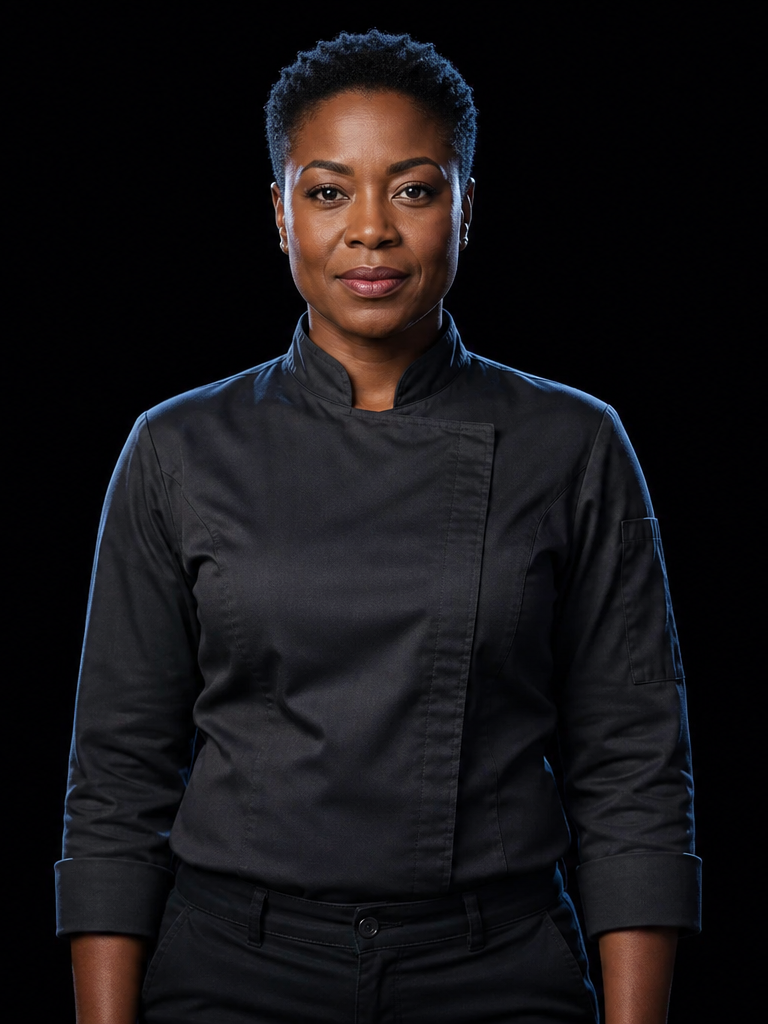
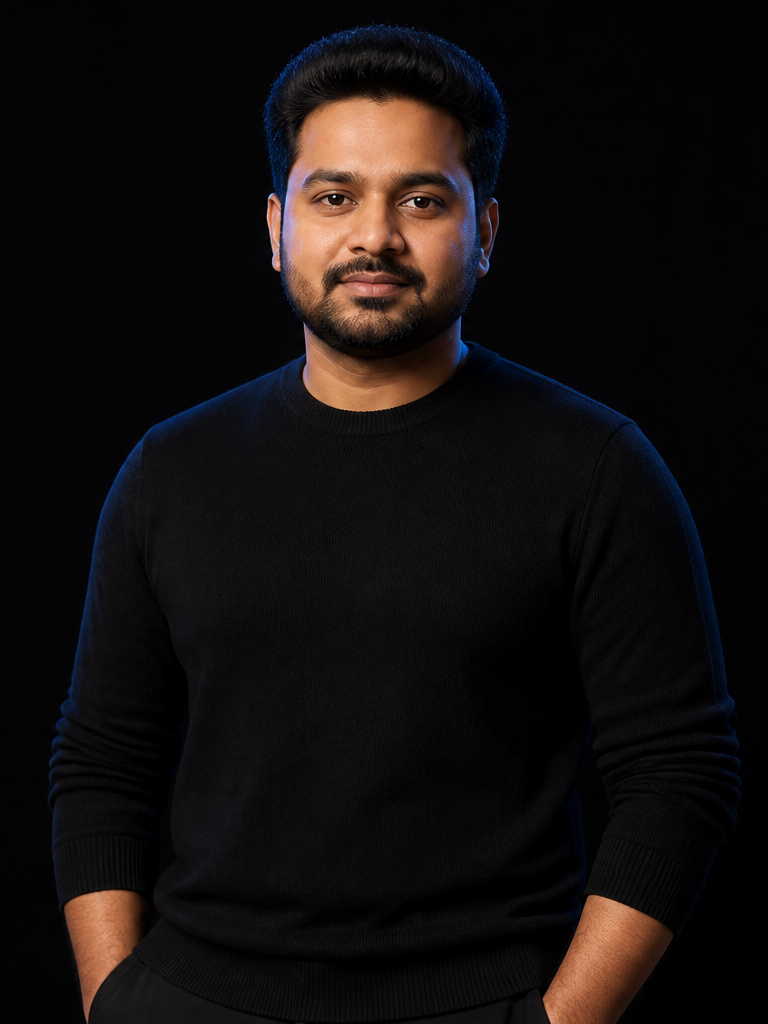
Add the verse page after layer + plugin, and remake four skill faces.
Keanu on Instagram now lands on four jobs. Concierge, Reviewer, Chef, and Coach no longer share a look.

Changed region(s): [[0.0625, 0.0, 0.9688, 1.0], [0.5625, 0.9062, 0.5938, 0.9375], [0.5312, 0.9375, 0.5625, 0.9688]]

diff --git a/index.html b/index.html
@@ -930,6 +930,71 @@
     .layer-custom .chip-label {
       width: 100%;
     }
+
+    .verse-kicker {
+      position: relative;
+      z-index: 2;
+      margin: 0;
+      font-size: 10px;
+      letter-spacing: 0.28em;
+      text-transform: uppercase;
+      color: rgba(244, 240, 246, 0.42);
+      text-align: center;
+    }
+    .verse-screen .screen-title {
+      margin: 0;
+      letter-spacing: 0.28em;
+      color: var(--line);
+    }
+    .verse-stage {
+      position: relative;
+      z-index: 2;
+      display: flex;
+      flex-direction: column;
+      align-items: center;
+      gap: 10px;
+      flex: 0 0 auto;
+    }
+    .verse-screen .portrait-wrap {
+      width: min(42vw, 168px);
+      max-width: 168px;
+    }
+    .verse-agent {
+      margin: 0;
+      font-size: 12px;
+      font-weight: 500;
+      letter-spacing: 0.22em;
+      text-transform: uppercase;
+      color: var(--line);
+    }
+    .verse-acts {
+      position: relative;
+      z-index: 2;
+      width: min(100%, 420px);
+      display: grid;
+      grid-template-columns: 1fr 1fr;
+      gap: 8px;
+      flex: 0 0 auto;
+    }
+    .verse-act {
+      appearance: none;
+      border: 1px solid var(--line);
+      background: rgba(232, 61, 154, 0.06);
+      color: var(--line);
+      margin: 0;
+      padding: 16px 10px;
+      font: inherit;
+      font-size: 11px;
+      font-weight: 500;
+      letter-spacing: 0.12em;
+      text-transform: uppercase;
+      cursor: pointer;
+      text-align: center;
+    }
+    .verse-act[aria-pressed="true"] {
+      background: rgba(232, 61, 154, 0.18);
+      box-shadow: 0 0 16px rgba(232, 61, 154, 0.3);
+    }
     .s3-foot {
       position: relative;
       z-index: 2;
@@ -1215,15 +1280,15 @@
           <span class="scenario-label"><strong>Operator</strong></span>
         </button>
         <button type="button" class="scenario" role="option" data-layer="concierge" aria-pressed="false">
-          <img class="scenario-art" src="assets/scenarios/scholar.png?v=2" alt="" />
+          <img class="scenario-art" src="assets/scenarios/concierge.png?v=1" alt="" />
           <span class="scenario-label"><strong>Concierge</strong></span>
         </button>
         <button type="button" class="scenario" role="option" data-layer="reviewer" aria-pressed="false">
-          <img class="scenario-art" src="assets/scenarios/director.png?v=2" alt="" />
+          <img class="scenario-art" src="assets/scenarios/reviewer.png?v=1" alt="" />
           <span class="scenario-label"><strong>Reviewer</strong></span>
         </button>
         <button type="button" class="scenario" role="option" data-layer="chef" aria-pressed="false">
-          <img class="scenario-art" src="assets/scenarios/chef.png?v=2" alt="" />
+          <img class="scenario-art" src="assets/scenarios/chef.png?v=3" alt="" />
           <span class="scenario-label"><strong>Chef</strong></span>
         </button>
         <button type="button" class="scenario" role="option" data-layer="security" aria-pressed="false">
@@ -1235,7 +1300,7 @@
           <span class="scenario-label"><strong>Planner</strong></span>
         </button>
         <button type="button" class="scenario" role="option" data-layer="coach" aria-pressed="false">
-          <img class="scenario-art" src="assets/scenarios/coach.png?v=1" alt="" />
+          <img class="scenario-art" src="assets/scenarios/coach.png?v=2" alt="" />
           <span class="scenario-label"><strong>Coach</strong></span>
         </button>
       </div>
@@ -1333,6 +1398,31 @@
         </div>
       </div>
     </div>
+
+    <div id="screen7" class="layer-screen verse-screen" aria-label="Verse" hidden>
+      <div class="s3-bg" aria-hidden="true">
+        <span class="s3-layer l1"></span>
+        <span class="s3-layer l2"></span>
+        <span class="s3-layer l3"></span>
+      </div>
+      <p class="verse-kicker">Verse</p>
+      <h1 class="screen-title" id="verse-name">Instagram</h1>
+      <div class="verse-stage">
+        <div class="portrait-wrap">
+          <div class="portrait">
+            <img id="verse-face" src="assets/scenarios/keanu.png?v=3" alt="" />
+          </div>
+        </div>
+        <p class="verse-agent" id="verse-agent">Keanu</p>
+      </div>
+      <div class="verse-acts" id="verse-acts" role="listbox" aria-label="What to do"></div>
+      <div class="s3-foot">
+        <div class="nav-pair">
+          <button type="button" class="back-btn" id="back-7" aria-label="Back"><span class="arrow" aria-hidden="true"></span> Back</button>
+          <button type="button" class="world-btn" id="verse-continue" disabled aria-disabled="true">Continue <span class="arrow" aria-hidden="true"></span></button>
+        </div>
+      </div>
+    </div>
   </div>
 
   <script>
@@ -1343,6 +1433,7 @@
       var screen4 = document.getElementById("screen4");
       var screen5 = document.getElementById("screen5");
       var screen6 = document.getElementById("screen6");
+      var screen7 = document.getElementById("screen7");
       var wordmark = document.getElementById("wordmark");
       var promise = document.getElementById("promise");
       var beam = document.getElementById("beam");
@@ -1378,7 +1469,7 @@
       }
 
       function hideLayerScreens() {
-        [screen3, screen4, screen5, screen6].forEach(function (el) {
+        [screen3, screen4, screen5, screen6, screen7].forEach(function (el) {
           if (!el) return;
           el.classList.remove("active");
           el.hidden = true;
@@ -1598,23 +1689,154 @@
       function goToScreen5() { showScreen(screen5); }
       function goToScreen6() { showScreen(screen6); }
 
+      var lastLayerScreen = screen5;
+      var selectedAct = null;
+      var verseFace = document.getElementById("verse-face");
+      var verseName = document.getElementById("verse-name");
+      var verseAgent = document.getElementById("verse-agent");
+      var verseActs = document.getElementById("verse-acts");
+      var verseContinue = document.getElementById("verse-continue");
+
+      var wireLabel = {
+        domain: "www.",
+        mail: "Email",
+        tiktok: "TikTok",
+        x: "X",
+        instagram: "Instagram",
+        slack: "Slack",
+        linkedin: "Linked In",
+        inscription: "Inscription"
+      };
+      var wireActs = {
+        instagram: [
+          ["caption", "Draft a caption"],
+          ["comments", "Reply to comments"],
+          ["story", "Cut a story"],
+          ["dms", "Sort the DMs"]
+        ],
+        x: [
+          ["post", "Draft a post"],
+          ["thread", "Reply in a thread"],
+          ["quote", "Quote a take"],
+          ["mentions", "Scan mentions"]
+        ],
+        tiktok: [
+          ["hook", "Draft a hook"],
+          ["caption", "Cut a caption"],
+          ["comments", "Reply to comments"],
+          ["sound", "Suggest a sound"]
+        ],
+        mail: [
+          ["reply", "Draft a reply"],
+          ["inbox", "Sort the inbox"],
+          ["follow", "Write a follow-up"],
+          ["file", "File a thread"]
+        ],
+        slack: [
+          ["message", "Draft a message"],
+          ["summary", "Summarize a channel"],
+          ["thread", "Reply in a thread"],
+          ["standup", "Write a standup"]
+        ],
+        linkedin: [
+          ["post", "Draft a post"],
+          ["comment", "Reply to a comment"],
+          ["note", "Write a note"],
+          ["feed", "Scan the feed"]
+        ],
+        domain: [
+          ["page", "Draft a page"],
+          ["bio", "Write a bio"],
+          ["form", "Answer a form"],
+          ["check", "Check the site"]
+        ],
+        inscription: [
+          ["draft", "Draft an inscription"],
+          ["note", "Write a note"],
+          ["mint", "Watch a mint"],
+          ["hash", "File a hash"]
+        ]
+      };
+
+      function layerLabel() {
+        var pressed = document.querySelector(".scenario[aria-pressed='true']");
+        if (pressed) {
+          var strong = pressed.querySelector("strong");
+          if (strong) return strong.textContent;
+        }
+        if (selectedLayer === "upload") return "Yours";
+        return selectedLayer || "Agent";
+      }
+      function layerFaceSrc() {
+        var pressed = document.querySelector(".scenario[aria-pressed='true']");
+        if (pressed) {
+          var img = pressed.querySelector("img");
+          if (img && img.getAttribute("src")) return img.getAttribute("src");
+        }
+        return agentFace ? agentFace.getAttribute("src") : "";
+      }
+      function renderVerseActs() {
+        var acts = wireActs[selectedWire] || wireActs.instagram;
+        verseActs.innerHTML = "";
+        selectedAct = null;
+        verseContinue.disabled = true;
+        verseContinue.setAttribute("aria-disabled", "true");
+        acts.forEach(function (pair) {
+          var btn = document.createElement("button");
+          btn.type = "button";
+          btn.className = "verse-act";
+          btn.setAttribute("role", "option");
+          btn.setAttribute("data-act", pair[0]);
+          btn.setAttribute("aria-pressed", "false");
+          btn.textContent = pair[1];
+          btn.addEventListener("click", function () {
+            selectedAct = pair[0];
+            Array.prototype.forEach.call(verseActs.children, function (b) {
+              b.setAttribute("aria-pressed", b === btn ? "true" : "false");
+            });
+            verseContinue.disabled = false;
+            verseContinue.setAttribute("aria-disabled", "false");
+          });
+          verseActs.appendChild(btn);
+        });
+      }
+      function goToScreen7() {
+        verseName.textContent = wireLabel[selectedWire] || selectedWire;
+        verseAgent.textContent = layerLabel();
+        var src = layerFaceSrc();
+        if (src) verseFace.src = src;
+        renderVerseActs();
+        showScreen(screen7);
+      }
       function finishLayer() {
         if (!selectedLayer && !personalityMd) return;
-        hint.textContent =
-          selectedModel +
-          (personalityMd ? " · file" : "") +
-          " · " + selectedWire +
-          (selectedLayer ? " · " + selectedLayer : "");
+        goToScreen7();
       }
 
       document.getElementById("back-4").addEventListener("click", goToScreen3);
       document.getElementById("back-5").addEventListener("click", goToScreen3);
       document.getElementById("back-6").addEventListener("click", goToScreen3);
+      document.getElementById("back-7").addEventListener("click", function () {
+        showScreen(lastLayerScreen || screen3);
+      });
+      verseContinue.addEventListener("click", function () {
+        if (!selectedAct) return;
+        hint.textContent = (verseAgent.textContent || "") + " · " + (verseName.textContent || "") + " · " + selectedAct;
+      });
 
       worldBtn.addEventListener("click", goToScreen3);
-      document.getElementById("pick-upload").addEventListener("click", goToScreen6);
-      document.getElementById("pick-celeb").addEventListener("click", goToScreen5);
-      document.getElementById("pick-skill").addEventListener("click", goToScreen4);
+      document.getElementById("pick-upload").addEventListener("click", function () {
+        lastLayerScreen = screen6;
+        goToScreen6();
+      });
+      document.getElementById("pick-celeb").addEventListener("click", function () {
+        lastLayerScreen = screen5;
+        goToScreen5();
+      });
+      document.getElementById("pick-skill").addEventListener("click", function () {
+        lastLayerScreen = screen4;
+        goToScreen4();
+      });
 
       scenarios.forEach(function (btn) {
         btn.addEventListener("click", function () {
